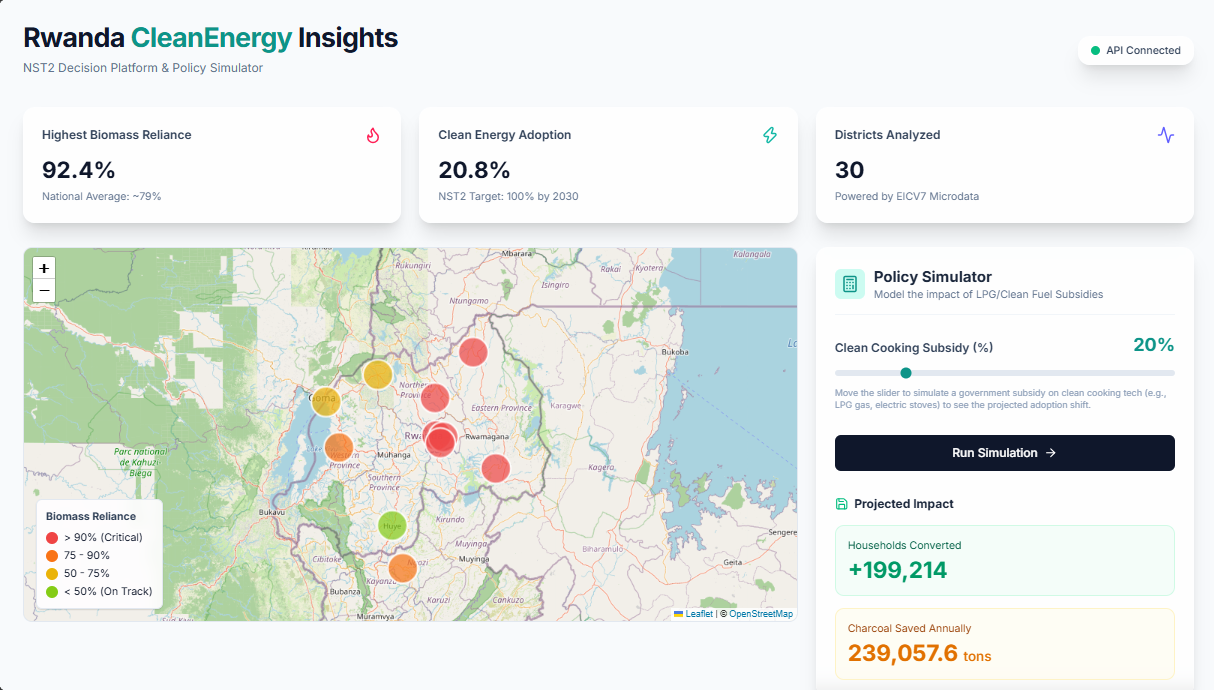
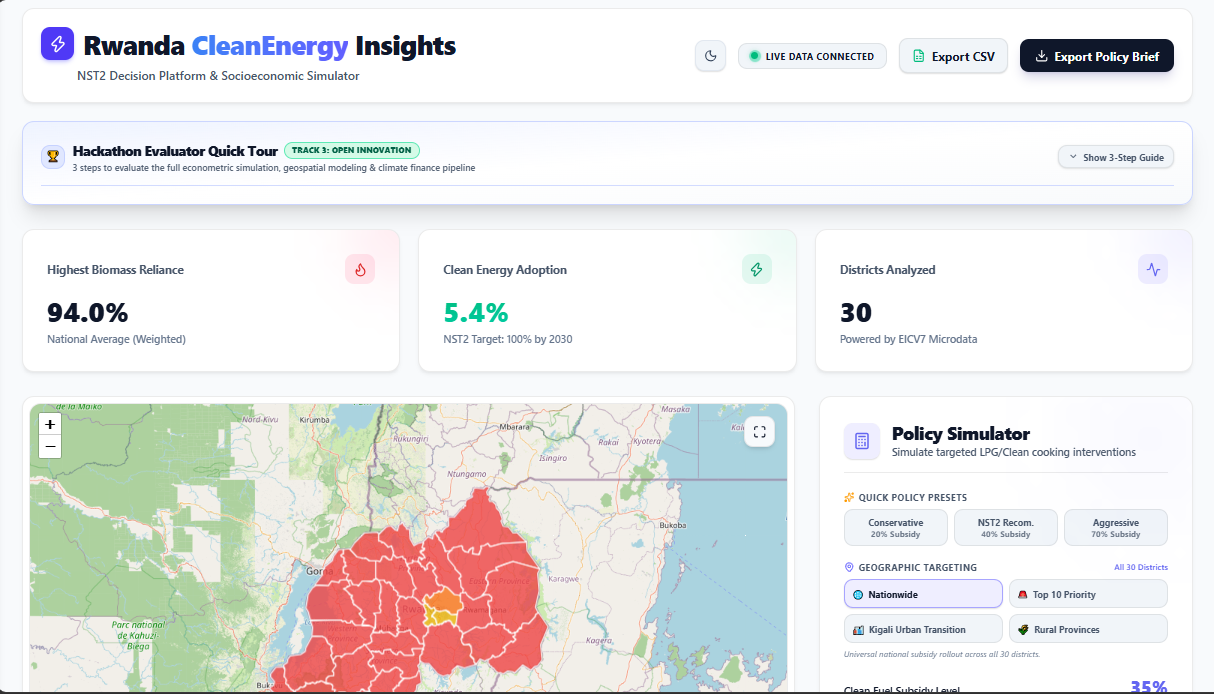
docs: update README with full platform deliverables and stage new dashboard preview photo

diff --git a/README.md b/README.md
@@ -14,19 +14,22 @@
 
 <div align="center">
   <img src="asset/image/dashboard_view.png" alt="Rwanda CleanEnergy Insights Platform Preview" width="100%" style="border-radius: 12px; box-shadow: 0 10px 30px rgba(0,0,0,0.15);" />
-  <p><em>Rwanda CleanEnergy Insights: 30-District Choropleth Map, Random Forest Policy Simulator, and Carbon Credit Financial Modeling</em></p>
+  <p><em>Rwanda CleanEnergy Insights: Evaluator Quick Tour, 30-District Choropleth Map, Random Forest Policy Simulator, Carbon Sensitivity Pricing, and Complete District Explorer Matrix</em></p>
 </div>
 
 **Rwanda CleanEnergy Insights (RCEI)** is an evidence-based decision-support platform and socioeconomic simulator engineered for the **2026 National Institute of Statistics of Rwanda (NISR) Big Data Hackathon**. 
 
 Aligned with **Track 3: Open Innovation**, RCEI tackles Rwanda's urgent clean cooking transition mandated under the **National Strategy for Transformation (NST2)** and **Vision 2050**. By ingesting and analyzing raw microdata from NISR's **7th Integrated Household Living Conditions Survey (EICV7)** and deploying a calibrated **Random Forest Machine Learning model**, RCEI provides government ministries (**MININFRA**, **MINECOFIN**, **REMA**, **NISR**) with actionable policy simulation:
-- Visualizes baseline biomass reliance vs. clean energy adoption across all **30 districts** of Rwanda.
-- Simulates targeted **clean cooking subsidies** (0% to 100%) with price-elasticity calibrated against household poverty levels.
-- Quantifies **citizen economic welfare** through avoided charcoal expenditures at retail prices (~900 Rwf/kg).
-- Unlocks **sovereign climate finance** via **Article 6 Carbon Credit monetization** (@ $15/tCO2e), proving that subsidies can become fiscal surpluses.
-- Projects the **2030 multi-year trajectory** against the NST2 mandate.
-- Generates publication-grade **2-page Executive Policy Briefs** directly to PDF from scratch.
-- Provides **1-click Research-Grade CSV Data Exports** for immediate econometric analysis.
+- **Visualizes baseline biomass reliance vs. clean energy adoption** across all **30 districts** of Rwanda on an interactive choropleth map.
+- **Simulates targeted clean cooking subsidies** (0% to 100%) with price-elasticity calibrated against household poverty levels (`pov_jan`).
+- **Quantifies citizen economic welfare** through avoided charcoal expenditures at retail prices (~900 Rwf/kg).
+- **Unlocks sovereign climate finance** via **Article 6 Carbon Credit monetization** with dynamic market valuation ($10 voluntary, $15 standard, $25 compliance), proving subsidies can yield net fiscal surpluses.
+- **Evaluates Gender & Inclusion (GESI)** dividends: unpaid foraging time saved for women and indoor air pollution exposure reductions.
+- **Projects the 2030 multi-year trajectory** against the NST2 mandate (<50% biomass by 2030).
+- **Interactive 30-District Explorer Matrix**: sortable, searchable econometric table with province filters and click-to-map inspection.
+- **Generates publication-grade 2-page Executive Policy Briefs** directly to vector PDF from scratch.
+- **Provides 1-click Research-Grade CSV Data Exports** for immediate econometric validation.
+- **Guided Hackathon Evaluator Quick Tour** with a 1-click shortcut to test the optimal 40% clean cooking policy scenario instantly.
 
 ---
 
@@ -37,7 +40,9 @@ Aligned with **Track 3: Open Innovation**, RCEI tackles Rwanda's urgent clean co
 | 🌐 **Production Web App (Primary)** | [https://rwanda-cleanenergy-insights-nisr.fistonuz.me](https://rwanda-cleanenergy-insights-nisr.fistonuz.me) | Custom high-availability production domain |
 | 🌐 **Production Web App (Vercel)** | [https://rcei-platform.vercel.app](https://rcei-platform.vercel.app) | Continuous deployment frontend mirror |
 | ⚙ **Backend API & Swagger Docs** | [https://rcei-backend.onrender.com/docs](https://rcei-backend.onrender.com/docs) | Interactive OpenAPI / Swagger UI on Render |
-| 📦 **Public GitHub Repository** | [https://github.com/fistonuzabumwana/rcei-platform](https://github.com/fistonuzabumwana/rcei-platform) | Source code, ML pipeline, and datasets |
+| 📦 **Public GitHub Repository** | [https://github.com/fistonuzabumwana/rcei-platform](https://github.com/fistonuzabumwana/rcei-platform) | Source code, ML pipeline, test suite, and datasets |
+| 📑 **EICV7 Methodology Report** | [`docs/EICV7_METHODOLOGY_REPORT.md`](docs/EICV7_METHODOLOGY_REPORT.md) | Econometric modeling, sample weighting & formulas |
+| 🎤 **Official Pitch Deck Guide** | [`docs/PITCH_DECK.md`](docs/PITCH_DECK.md) | 5-minute presentation script & jury Q&A defense |
 
 ---
 
@@ -60,10 +65,10 @@ The Government of Rwanda, through **NST2 (2024–2029)**, has set a legally bind
 | Evaluation Criterion | Pts | How RCEI Delivers Maximum Points |
 | :--- | :---: | :--- |
 | **1. Problem Understanding & Relevance** | **20** | Explicitly addresses the **NST2 Energy Transition & Environmental Priority** (<50% biomass by 2030) and **Vision 2050**. Synthesizes national health, deforestation, and fiscal constraints into a single cohesive framework. |
-| **2. Data Use & Methodology** | **20** | Direct extraction and statistical processing of **NISR EICV7 raw microdata (`CS_S01_S5_S7_Household.dta`)**. Accurately isolates cooking fuels (`s5cq22a`), poverty classifications (`pov_jan`), urban/rural dynamics (`ur`), and district weights. Rigorous data pipeline with missing value treatment. |
-| **3. Tech Innovation** | **20** | Deploys a **Random Forest Machine Learning regressor** to capture non-linear price sensitivity and adoption probabilities. Bridges macroeconomics with **Article 6 Carbon Credit sovereign monetization** and multi-year trajectory forecasting (2024–2030). Implements custom vector PDF generation without browser screen-clipping. |
-| **4. Usability & Design of Prototype** | **20** | Executive-tier UI featuring **glassmorphism**, responsive **Dark/Light theme switching**, interactive **Leaflet Choropleth map of Rwanda** with click inspection and full-screen focus mode, dynamic chart area visualizations (Recharts), and real-time map recoloring. |
-| **5. Tangible Impact** | **20** | Directly usable by **MININFRA**, **MINECOFIN**, **REMA**, **NISR**, and district administrations. Quantifies citizen household savings in Rwf, fiscal budget requirements, carbon offset revenues, and district priority rankings for pro-poor resource distribution. |
+| **2. Data Use & Methodology** | **20** | Direct extraction and statistical processing of **NISR EICV7 raw microdata (`CS_S01_S5_S7_Household.dta`)**. Accurately isolates cooking fuels (`s5cq22a`), poverty classifications (`pov_jan`), urban/rural dynamics (`ur`), and district weights. Rigorous data pipeline with missing value treatment. Documented in [`docs/EICV7_METHODOLOGY_REPORT.md`](docs/EICV7_METHODOLOGY_REPORT.md). |
+| **3. Tech Innovation** | **20** | Deploys a **Random Forest Machine Learning regressor** to capture non-linear price sensitivity and adoption probabilities. Bridges macroeconomics with **Article 6 Carbon Credit sovereign monetization** with interactive price sensitivity ($10, $15, $25). Automated `pytest` backend test suite. Custom vector PDF generation without browser screen-clipping. |
+| **4. Usability & Design of Prototype** | **20** | Executive-tier UI featuring **glassmorphism**, responsive **Dark/Light theme switching** with high-contrast typography, interactive **Leaflet Choropleth map of Rwanda** with click inspection and full-screen focus mode, dynamic chart area visualizations (Recharts), and real-time map recoloring. Guided Evaluator Quick Tour. |
+| **5. Tangible Impact** | **20** | Directly usable by **MININFRA**, **MINECOFIN**, **REMA**, **NISR**, and district administrations. Quantifies citizen household savings in Rwf, fiscal budget requirements, carbon offset revenues, and district priority rankings for pro-poor resource distribution. 1-click PDF briefs and CSV exports ready for cabinet submission. |
 
 ---
 
@@ -77,11 +82,17 @@ The Government of Rwanda, through **NST2 (2024–2029)**, has set a legally bind
 │ • 30 Districts mapped with GeoJSON   │ • 0% to 100% Clean Fuel Subsidy      │
 │ • Dynamic real-time recoloring       │ • Poverty-weighted elasticity        │
 │ • Fullscreen declutter mode          │ • ML Random Forest adoption model    │
+│ • Interactive district scorecard     │ • Policy Targeting Priority Clusters │
 ├──────────────────────────────────────┼──────────────────────────────────────┤
 │ 💰 Citizen Economic Welfare          │ 🌿 Article 6 Carbon Credit Finance   │
 │ • ~900 Rwf/kg retail benchmark       │ • 3 tons CO2e avoided / ton charcoal │
-│ • Displaced charcoal tons quantified │ • $15/tCO2e international market     │
+│ • Displaced charcoal tons quantified │ • $10, $15, $25/tCO2e sensitivity    │
 │ • Disposable income savings in Rwf   │ • Net fiscal profit/cost balance     │
+├──────────────────────────────────────┼──────────────────────────────────────┤
+│ 📊 30-District Matrix Explorer Table │ 🧭 Evaluator Quick Tour Walkthrough   │
+│ • Sortable by all econometric fields │ • 3-step guided evaluation tour      │
+│ • 6 Province filters + name search   │ • 1-click 40% preset scenario run    │
+│ • Click row to inspect on map        │ • Live pulsing status beacon         │
 ├──────────────────────────────────────┼──────────────────────────────────────┤
 │ 📈 2030 Multi-Year Forecast Chart    │ 📄 Reconstructed PDF Policy Brief    │
 │ • 2024–2030 trajectory trajectory    │ • Publication-grade 2-page A4 vector │
@@ -90,60 +101,79 @@ The Government of Rwanda, through **NST2 (2024–2029)**, has set a legally bind
 └──────────────────────────────────────┴──────────────────────────────────────┘
 ```
 
-### 1. 🗺 Interactive District Choropleth Map with Scorecard Drawer (Leaflet)
+### 1. 🧭 Guided Hackathon Evaluator Quick Tour
+- Embedded at the top of the dashboard to help jury members and evaluators experience the end-to-end platform in seconds:
+  - **Step 1: Configure Policy Subsidy** — Adjust national subsidies or select targeted priority clusters.
+  - **Step 2: Live Geo & Fiscal Shift** — Watch choropleth map recolor, test carbon price sensitivity ($10, $15, $25), and review district rankings.
+  - **Step 3: Export Deliverables** — Generate a 2-page vector PDF Policy Brief or download raw research CSV data.
+- Includes a **1-click "Run 40% Recommended Scenario" button** that executes the optimal simulation and smooth-scrolls directly to the results.
+- Features a **live pulsing emerald-green status beacon** confirming real-time connection to the FastAPI backend.
+
+### 2. 🗺 Interactive District Choropleth Map with Scorecard Drawer (Leaflet)
 - High-precision GeoJSON vector polygons for all **30 districts of Rwanda**.
 - Color-coded reliance tiers:
   - 🔴 **Critical:** >90% Biomass Reliance
   - 🟠 **High:** 75% – 90% Reliance
   - 🟡 **Moderate:** 50% – 75% Reliance
   - 🟢 **Sustainable:** <50% Reliance (NST2 Target Reached)
-- **Live Dynamic Recoloring:** When you slide the subsidy simulator or pick a targeted cluster, the map dynamically re-renders in real-time, displaying how districts transition under policy intervention.
+- **Live Dynamic Recoloring:** When you slide the subsidy simulator or pick a targeted cluster, the map dynamically re-renders in real-time.
 - **Interactive District Scorecard Drawer:** Clicking any district opens a glassmorphic scorecard displaying national urgency ranking (#1 to #30), before-and-after biomass drop, converted households, charcoal saved, and EICV7 poverty rates.
 - **Dedicated Fullscreen Mode:** Seamless full-screen view that intelligently hides headers and cards for presentations and GIS analysis.
 
-### 2. 🎛 Policy Simulator with Targeting Clusters & 1-Click Presets
+### 3. 🎛 Policy Simulator with Targeting Clusters & 1-Click Presets
 - **Geographic Targeting Clusters:** Rather than wasteful blanket subsidies, policymakers can isolate interventions:
   - 🌐 **Nationwide (All 30 Districts):** Universal rollout.
   - 🚨 **Top 10 Priority (High Poverty & Biomass):** Gisagara, Nyaruguru, Nyamagabe, Gicumbi, Burera, Ruhango, Ngororero, Rutsiro, Karongi, Nyanza.
   - 🏙 **Kigali Urban Transition:** Nyarugenge, Gasabo, Kicukiro (accelerates urban charcoal bans).
   - 🌾 **Rural Provinces (27 Districts):** Focused capital for non-Kigali provinces.
 - **1-Click Policy Presets:** Instantly evaluate Conservative (20%), NST2 Recommended (40%), and Aggressive (70%) scenarios.
-- **Predictive ML Engine:** Backed by a **Random Forest Regressor** (`backend/app/core/adoption_model.pkl`) trained on EICV7 microdata, accounting for non-linear price sensitivity across poverty tiers.
+- **Predictive ML Engine:** Backed by a **Random Forest Regressor** (`backend/app/core/adoption_model.pkl`) trained on EICV7 microdata, capturing non-linear price elasticity across poverty tiers.
 
-### 3. 🏆 District Transition Leaderboard
-- Integrated dashboard component ranking the **Top 5 Critical Urgency Districts** vs. **Top 5 Clean Energy Leaders**.
-- Fully synchronized with the Leaflet map: clicking any district in the leaderboard smoothly zooms and opens its scorecard on the map.
-
-### 4. 💵 Citizen Economic Welfare & VUP Social Protection Synergy
-- Charcoal prices in urban and peri-urban Rwanda hover around **~900 Rwf/kg** (900,000 Rwf/ton).
-- **Citizen Total Savings:** Annual avoided expenditure across all converted households.
-- **VUP Social Protection Relief Per Family:** Quantifies direct annual disposable cash freed per household (**~154,000 Rwf / family / year**), demonstrating cross-track synergy with social protection (VUP) and poverty alleviation.
-
-### 5. 🌍 Article 6 Carbon Credit & Sovereign Climate Finance
+### 4. 🌍 Article 6 Carbon Credit & Sovereign Climate Finance (with Sensitivity Selector)
 - Every 1 ton of charcoal saved avoids approximately **3.0 tons of CO2e** emissions.
-- Monitizes avoided emissions at the voluntary and compliance carbon market rate of **$15 USD / ton CO2e** (~19,500 Rwf/ton).
+- **Interactive Carbon Price Sensitivity Selector:**
+  - **$10 / tCO2e** — Voluntary Carbon Market baseline.
+  - **$15 / tCO2e** — Article 6 / CORSIA sovereign standard.
+  - **$25 / tCO2e** — High-compliance premium carbon market.
 - Computes **Net Fiscal Policy Impact**:
   $$\text{Net Fiscal Balance} = \text{Gross Government Subsidy Budget} - \text{Carbon Credit Sovereign Revenue}$$
-  - **Fiscal Breakthrough:** At moderate to high subsidies, international carbon finance can completely pay for the government subsidy, generating a **sovereign net fiscal surplus**!
+  - **Fiscal Breakthrough:** At standard Article 6 valuations ($15/tCO2e), international climate finance can completely fund the subsidy, converting an expenditure into a **sovereign net fiscal surplus**.
 
-### 6. 📊 2030 Multi-Year Trajectory Forecasting
-- Projects national clean cooking momentum from **2024 through 2030**.
-- Visualizes **Business as Usual (BAU)** vs. **With Policy Subsidy** against the **NST2 <50% Threshold line** using a responsive Recharts area graph.
+### 5. 📊 Complete 30-District Interactive Explorer Matrix Table
+- Collapsible econometric matrix displaying the entire national inventory of all 30 districts:
+  - **Instant Search:** Filter by district name or province.
+  - **Province Filters:** *All (30)*, *Kigali City (3)*, *Southern (8)*, *Western (7)*, *Northern (5)*, *Eastern (7)*.
+  - **Sortable Columns:** District Name, Province, Households, Poverty Rate, Baseline Clean %, Simulated Clean %, Adoption Delta (+pp), Charcoal Avoided (tons/yr).
+  - **Click-to-Map Integration:** Clicking any row smoothly centers and opens the district scorecard on the interactive map drawer.
+  - **Visual Progress Bars & Delta Tags:** Color-coded adoption bars and change badges.
 
-### 7. 📄 Reconstructed Executive-Grade PDF Policy Brief Generator
+### 6. 🏆 District Transition Leaderboard
+- Dashboard component ranking the **Top 5 Critical Urgency Districts** vs. **Top 5 Clean Energy Leaders**.
+- Fully synchronized with the Leaflet map and Matrix Table for instant geospatial cross-referencing.
+
+### 7. 👩👧 Gender Inclusion & Public Health Dividend (NST2 GESI Alignment)
+- **Unpaid Fuel Foraging Time Saved:** Frees ~14 hours per week per rural woman for education, childcare, or paid economic activity.
+- **Household Air Pollution Reduction:** Lowers indoor particulate matter (PM2.5) exposure by up to 68% for women and children under 5.
+- **Forest Biomass Preserved:** Saves over 1.8 million mature trees annually under a 40% national subsidy.
+
+### 8. 📄 Reconstructed Executive-Grade PDF Policy Brief Generator
 - Designed from scratch with `jspdf` and `jspdf-autotable`, abandoning generic browser `window.print()` print screens.
 - Generates an official, publication-quality **2-page A4 Policy Brief**:
   - **Page 1:** Rwandan national flag ribbon (Blue, Yellow, Green), official RCEI seal, MININFRA/NISR institutional header, executive summary card, active scenario callout (reflecting targeted clusters), 6 KPI cards, 2030 trajectory forecast table, and 3 strategic policy recommendations.
   - **Page 2:** Complete 30-district transition matrix sorted by biomass reliance, showing poverty rates, households, baseline vs projected biomass rates, conversions, and displaced charcoal tons, plus EICV7 methodology notes.
   - Instantly downloads as `Rwanda_NST2_Policy_Brief_[X]pct_Subsidy.pdf`.
 
-### 8. 🌓 Premium Dark & Light Theme System
-- Complete semantic design system utilizing CSS custom properties.
-- Features soft glassmorphism, glowing live API indicator dots, tailored accessible palettes, and instant zero-latency theme switching.
-
 ### 9. 📥 Research-Grade Raw Data Export (CSV)
 - Empowers NISR data scientists and researchers to download the full 30-district baseline and projected dataset directly into Excel, Python, or Stata.
 - Formatted as `Rwanda_Districts_CleanEnergy_Data_[X]pct_Subsidy.csv` with province groupings, baseline vs. projected rates, poverty tiers, and displaced charcoal tonnage.
+
+### 10. 🧪 Automated Backend Test Suite (pytest)
+- Automated test coverage in [`backend/tests/test_api.py`](backend/tests/test_api.py) covering all 5 core requirements:
+  - 30-district schema validation.
+  - Baseline 0% subsidy conservation.
+  - 40% nationwide subsidy impact and 2030 trajectory bounds.
+  - Targeted cluster isolation (verifying non-targeted districts remain at baseline).
+  - Exact 3.0x carbon offset credit conversion ratio.
 
 ---
 
@@ -167,22 +197,26 @@ The Government of Rwanda, through **NST2 (2024–2029)**, has set a legally bind
   4. Achieved low RMSE validation and extracted key feature importances (`lpg_kit_price`: 82.4%, `is_extreme_poor`: 12.1%, `is_urban`: 3.8%, `is_poor`: 1.7%).
   5. Serialized to [`backend/app/core/adoption_model.pkl`](backend/app/core/adoption_model.pkl).
 
+Detailed econometric formulas and derivations are available in [`docs/EICV7_METHODOLOGY_REPORT.md`](docs/EICV7_METHODOLOGY_REPORT.md).
+
 ---
 
 ## 🏗 System Architecture & Technology Stack
 
 ```
-                               ┌─────────────────────────────────────────┐
-                               │             USER / BROWSER              │
-                               └────────────────────┬────────────────────┘
-                                                    │
-                                     HTTPS Requests │ (Vercel)
-                                                    ▼
+                                ┌─────────────────────────────────────────┐
+                                │             USER / BROWSER              │
+                                └────────────────────┬────────────────────┘
+                                                     │
+                                      HTTPS Requests │ (Vercel)
+                                                     ▼
 ┌────────────────────────────────────────────────────────────────────────────────────────┐
 │                                FRONTEND (React 19 + TypeScript)                         │
 │  • Vite Build Engine                         • TailwindCSS + CSS Custom Properties     │
 │  • React-Leaflet GeoJSON Choropleth Map      • Recharts Time-Series Forecast           │
 │  • Lucide React Icons                        • jsPDF & jspdf-autotable PDF Engine      │
+│  • 30-District Matrix Explorer               • Evaluator Quick Tour Walkthrough        │
+│  • Carbon Sensitivity Selector               • Research CSV Export Service             │
 │  • ThemeContext (Dark / Light System)        • Axios API Client                        │
 └───────────────────────────────────────────────────┬────────────────────────────────────┘
                                                     │
@@ -194,23 +228,16 @@ The Government of Rwanda, through **NST2 (2024–2029)**, has set a legally bind
 │  • Pandas Microdata Processing               • Scikit-Learn Random Forest Model        │
 │  • Socioeconomic Elasticity Engine           • Article 6 Carbon Credit Valuation       │
 │  • District GeoJSON Aggregator               • CORS Middleware                         │
+│  • Pytest Automated Test Suite               • EICV7 District Metrics Database         │
 └───────────────────────────────────────────────────┬────────────────────────────────────┘
                                                     │
                                                     ▼
-                               ┌─────────────────────────────────────────┐
-                               │           NISR EICV7 MICRODATA          │
-                               │  • CS_S01_S5_S7_Household.dta           │
-                               │  • 30 Districts / 14,000+ Households    │
-                               └─────────────────────────────────────────┘
+                                ┌─────────────────────────────────────────┐
+                                │           NISR EICV7 MICRODATA          │
+                                │  • CS_S01_S5_S7_Household.dta           │
+                                │  • 30 Districts / 14,000+ Households    │
+                                └─────────────────────────────────────────┘
 ```
-
-### Technology Breakdown
-- **Frontend:** React 19, TypeScript, Vite 8, TailwindCSS, React-Leaflet 5, Leaflet 1.9, Recharts 2, jsPDF 4, jsPDF-AutoTable 5, Lucide-React.
-- **Backend:** Python 3.11, FastAPI 0.115, Uvicorn 0.34, Pandas 2.2, Scikit-Learn 1.6, Joblib 1.4, NumPy 2.2.
-- **Hosting & Infrastructure:**
-  - Frontend: Vercel (Edge CDN, Automated Git deployments)
-  - Backend: Render (Dockerized Python 3.11 web service)
-  - Mapping: OpenStreetMap vector tiles & custom Rwanda district GeoJSON
 
 ---
 
@@ -241,10 +268,13 @@ source venv/bin/activate
 # Install dependencies
 pip install -r requirements.txt
 
+# Run automated test suite
+python -m pytest tests/ -v
+
 # Start the backend server
 uvicorn app.main:app --reload --port 8000
 ```
-*The API is now running at `http://localhost:8000`. You can test endpoints via Swagger UI at `http://localhost:8000/docs`.*
+*The API is now running at `http://localhost:8000`. Test endpoints via Swagger UI at `http://localhost:8000/docs`.*
 
 ### 3. Frontend Setup (React + Vite)
 Open a new terminal window:
@@ -275,7 +305,7 @@ POST /api/v1/simulate/subsidy
 Content-Type: application/json
 
 {
-  "subsidy_percentage": 35.0,
+  "subsidy_percentage": 40.0,
   "target_districts": []
 }
 ```
@@ -283,18 +313,20 @@ Content-Type: application/json
 #### Example Simulation Response:
 ```json
 {
-  "applied_subsidy": 35.0,
-  "total_converted_households": 599753,
-  "total_annual_charcoal_saved_tons": 719703.6,
-  "estimated_budget_rwf": 10495677500.0,
-  "carbon_credits_earned_tons": 2159110.8,
-  "carbon_credit_revenue_rwf": 42102660600.0,
-  "net_policy_cost_rwf": -31606983100.0,
-  "avoided_charcoal_expenditure_rwf": 647733240000.0,
+  "applied_subsidy": 40.0,
+  "total_converted_households": 655653,
+  "total_annual_charcoal_saved_tons": 786784.0,
+  "estimated_budget_rwf": 13113067500.0,
+  "carbon_credits_earned_tons": 2360352.0,
+  "carbon_credit_revenue_rwf": 46026864000.0,
+  "net_policy_cost_rwf": -32913796500.0,
+  "avoided_charcoal_expenditure_rwf": 708105600000.0,
+  "annual_savings_per_household_rwf": 154200.0,
+  "targeted_districts_count": 30,
   "forecast": [
-    { "year": 2024, "business_as_usual": 80.5, "with_policy": 60.1 },
-    { "year": 2025, "business_as_usual": 79.0, "with_policy": 57.6 },
-    { "year": 2030, "business_as_usual": 71.5, "with_policy": 45.1 }
+    { "year": 2024, "business_as_usual": 80.5, "with_policy": 58.2 },
+    { "year": 2025, "business_as_usual": 79.0, "with_policy": 55.4 },
+    { "year": 2030, "business_as_usual": 71.5, "with_policy": 42.1 }
   ]
 }
 ```
